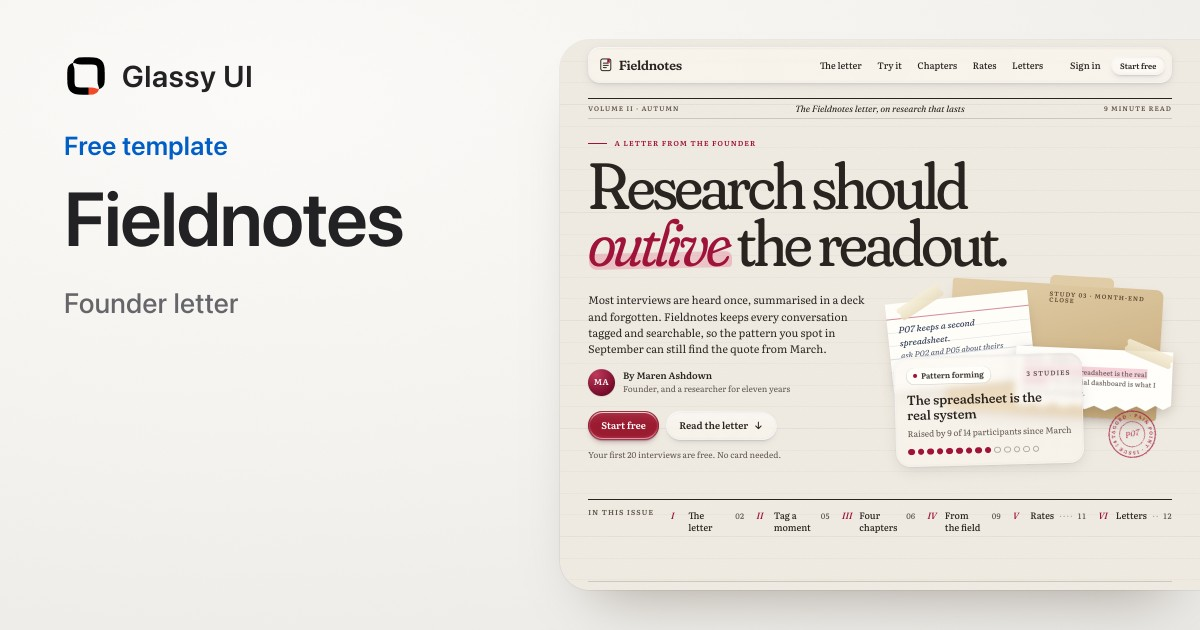
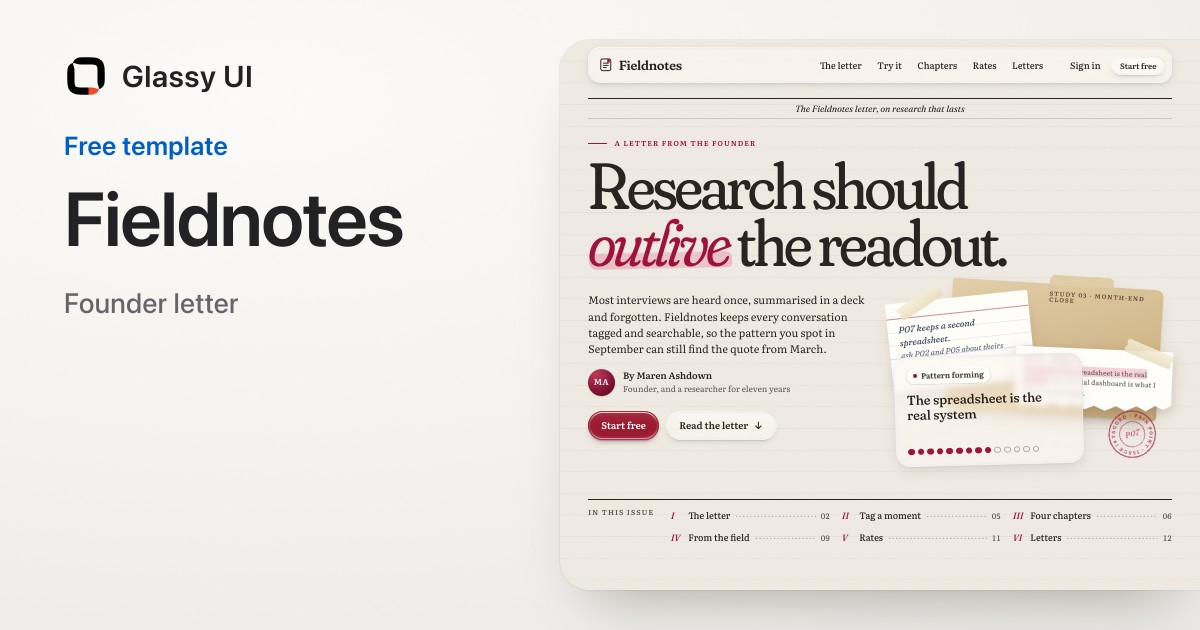
Leave sample dates and counts out of Fieldnotes' share card
The card's photograph now also hides the dateline's season and read time,
the cover card's study count and participant line, and the free-interview
note, as the link-preview rules ask.

diff --git a/src/app/share-studio/[...card]/page.tsx b/src/app/share-studio/[...card]/page.tsx
@@ -59,10 +59,13 @@ const MOSAIC = ['glass-button', 'glass-switch', 'glass-slider', 'glass-segmented
 );
 
 // A template's card shows its live preview at a desktop width, scaled down. The photograph leaves
-// out what would go stale in a picture: the sample launch date and signup count.
+// out what would go stale in a picture: its sample dates and counts.
 const TEMPLATE_STAGES: Partial<Record<FreeTemplateSlug, { zoom: number; hide: string }>> = {
   halcyon: { zoom: 0.6, hide: '.halcyon-hero-chip, .halcyon-avatars-text' },
-  fieldnotes: { zoom: 0.6, hide: '.fieldnotes-mast-issue' },
+  fieldnotes: {
+    zoom: 0.6,
+    hide: '.fieldnotes-mast-issue, .fieldnotes-dateline > :not(.fieldnotes-dateline-mid), .fieldnotes-cover-card-meta, .fieldnotes-cover-card-sub, .fieldnotes-cover-note',
+  },
 };
 
 /** What a card says and shows, from its address: /share-studio/card/<kind>/<name>. */
